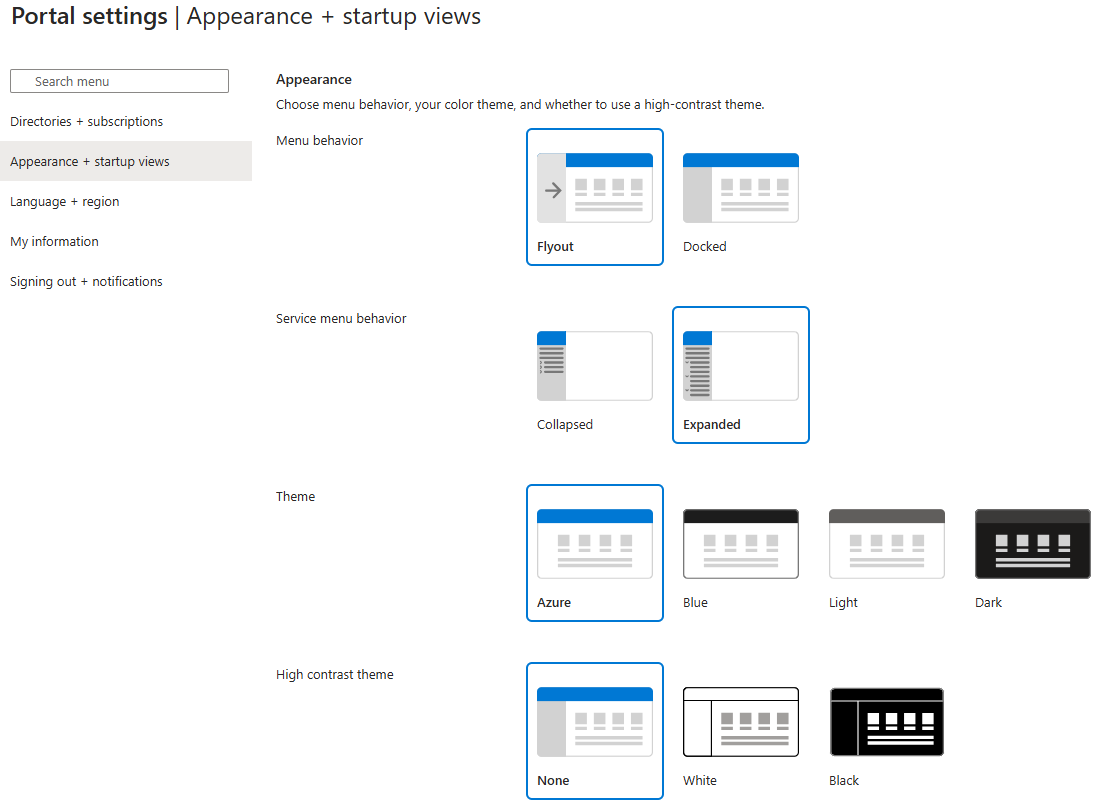
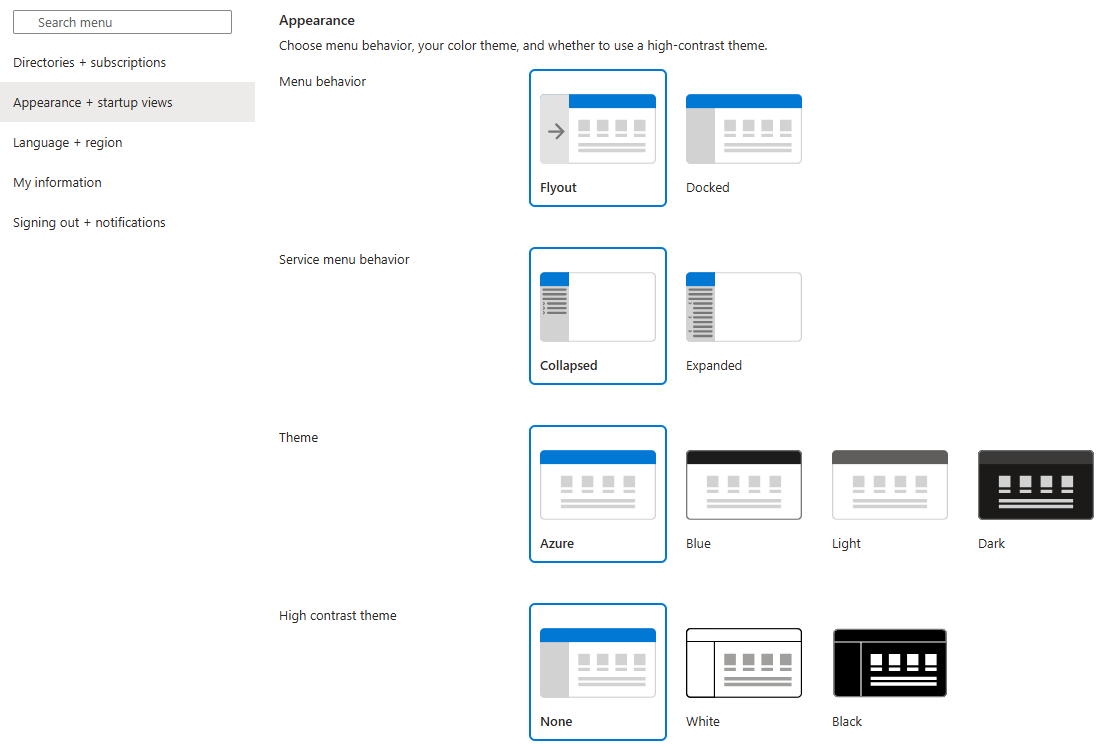
date and notes, image update

diff --git a/articles/azure-portal/azure-portal-overview.md b/articles/azure-portal/azure-portal-overview.md
@@ -1,7 +1,7 @@
 ---
 title: What is the Azure portal?
 description: The Azure portal is a graphical user interface that you can use to manage your Azure services. Learn how to navigate and find resources in the Azure portal.
-ms.date: 06/24/2024
+ms.date: 07/02/2024
 ms.topic: overview
 ---
 
@@ -82,6 +82,9 @@ When you save a command as a favorite, it appears in a **Favorites** folder near
 :::image type="content" source="media/azure-portal-overview/service-menu-favorites.png" alt-text="Screenshot of the Favorites folder in a service menu.":::
 
 Your menu group selections are preserved by resource type and throughout sessions. For example, if you add a favorite command while working with a VM, that command will appear in your **Favorites** if you later work with a different VM. Specific menu groups will also appear collapsed or expanded based on your previous selections.
+
+> [!NOTE]
+> We're in the process of rolling out the new service menu experience to all customers. If you don't see these options in the service menu, check back soon. We'll remove this note once all customers are seeing the new experience.
 
 ## Dashboard
 

diff --git a/articles/azure-portal/set-preferences.md b/articles/azure-portal/set-preferences.md
@@ -1,7 +1,7 @@
 ---
 title: Manage Azure portal settings and preferences
 description: Change Azure portal settings such as default subscription/directory, timeouts, menu mode, contrast, theme, notifications, language/region and more.
-ms.date: 06/24/2024
+ms.date: 07/02/2024
 ms.topic: how-to
 ---
 
@@ -105,6 +105,9 @@ The **Service menu behavior** section lets you choose how items in [service menu
 
 - **Collapsed**: Groups of commands in service menus will appear collapsed. You can still manually select any top-level item to display the commands within that menu group.
 - **Expanded**: Groups of commands in service menus will appear expanded. You can still manually select any top-level item to collapse that menu group.
+
+> [!NOTE]
+> We're in the process of rolling out the **Service menu behavior** settings option to all customers. If you don't see this section, check back soon. We'll remove this note after all customers have this option in their portal settings.
 
 ### Choose a theme or enable high contrast
 
